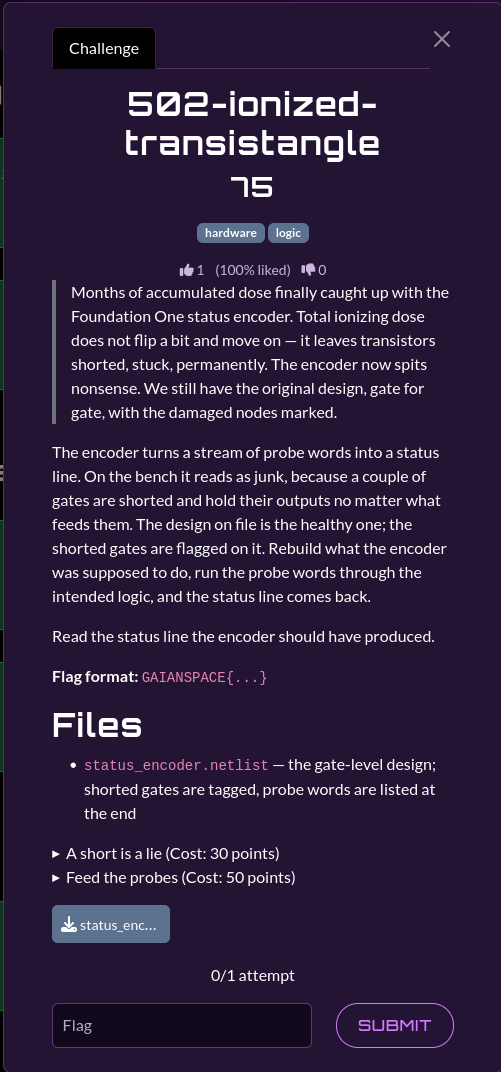
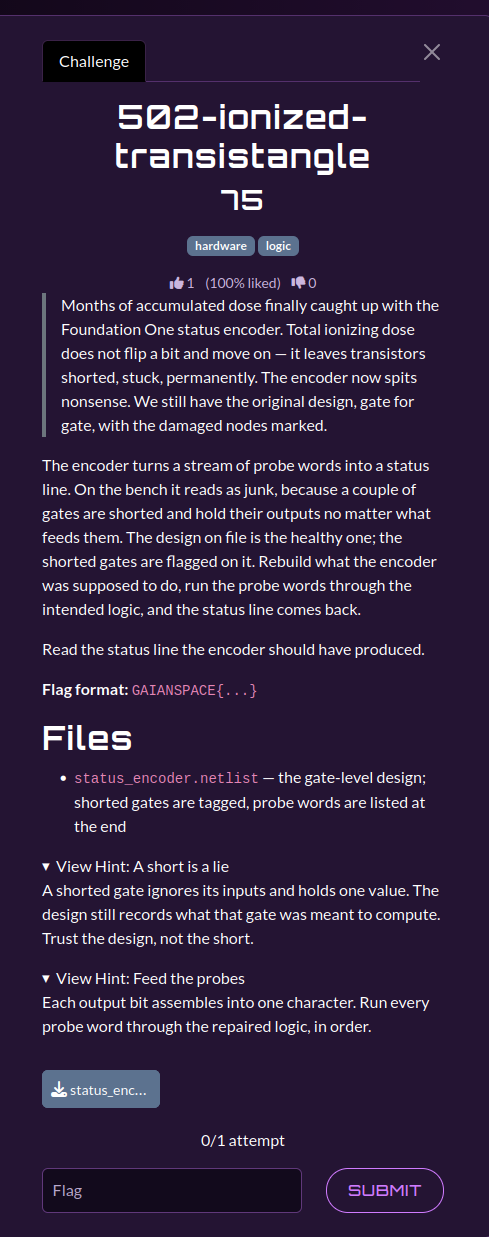
Update README.md

diff --git a/05-rad-hard-rampage/505-thermal-duty/README.md b/05-rad-hard-rampage/505-thermal-duty/README.md
@@ -20,6 +20,13 @@ Recover the drive sequence the amplifier was given.
 - `thermal_log.csv` — time and PA case temperature
 - `thermal_model.md` — the first-order thermal model, without its constants
 
+## Hints
+
+Two hints were released during the event:
+
+1. **Driven, not drifting** — The temperature does not wander on its own; something pushes it each step. You already know what the first few pushes spelled, so you know the drive for the first few steps.
+2. **Counts, then characters** — Solve the model for the drive at each step. The recovered counts are small whole numbers, and they read as text.
+
 ## Solution
 
 ### Analysis

diff --git a/05-rad-hard-rampage/504-lunar-latch-up/README.md b/05-rad-hard-rampage/504-lunar-latch-up/README.md
@@ -20,6 +20,13 @@ Reset the latch and open the payload.
 - `reg_dump.bin` — the latched register file, its integrity word, and the sealed payload
 - `recovery_spec.md` — the power block's dump layout and key scheme
 
+## Hints
+
+Two hints were released during the event:
+
+1. **One bit too high** — The latch set a single bit. You only need to consider bits that are currently high; clearing the right one makes the stored integrity word match.
+2. **The registers are the key** — Once the integrity word agrees, the corrected register bytes derive the key that opens the payload. The spec says how.
+
 ## Solution
 
 ### Analysis

diff --git a/05-rad-hard-rampage/503-degradift/README.md b/05-rad-hard-rampage/503-degradift/README.md
@@ -20,6 +20,13 @@ Recover the as-flown readings and read what they spell.
 - `sensor_log.csv` — sample index and the degraded reading
 - `ddd_characterization.md` — the measured drift model
 
+## Hints
+
+Two hints were released during the event:
+
+1. **Creep, not jump** — The error grows with every sample along the curve in the characterization note. Subtract the modelled drift from each reading.
+2. **Not parts per million** — The cleaned numbers are not a gas concentration. They sit in a familiar range once you shift off the baseline. The mission format tells you the first character.
+
 ## Solution
 
 ### Analysis

diff --git a/05-rad-hard-rampage/502-ionized-transistangle/README.md b/05-rad-hard-rampage/502-ionized-transistangle/README.md
@@ -19,6 +19,13 @@ Read the status line the encoder should have produced.
 
 - `status_encoder.netlist` — the gate-level design; shorted gates are tagged, probe words are listed at the end
 
+## Hints
+
+Two hints were released during the event:
+
+1. **A short is a lie** — A shorted gate ignores its inputs and holds one value. The design still records what that gate was meant to compute. Trust the design, not the short.
+2. **Feed the probes** — Each output bit assembles into one character. Run every probe word through the repaired logic, in order.
+
 ## Solution
 
 ### Analysis

diff --git a/05-rad-hard-rampage/501-cosmic-bit-blunder/README.md b/05-rad-hard-rampage/501-cosmic-bit-blunder/README.md
@@ -20,6 +20,13 @@ Undo the particle's one mistake and read the log.
 - `cipher.bin` — the encrypted mission log (AES, one block scheme)
 - `corrupted.key` — the 128-bit key as it reads after the hit
 
+## Hints
+
+Two hints were released during the event:
+
+1. **Only one** — Exactly one bit of the key is wrong. The data is fine. The search space is very small.
+2. **Try them all** — There are only so many single-bit changes to a 16-byte key. Walk them until the log turns into words.
+
 ## Solution
 
 ### Analysis
